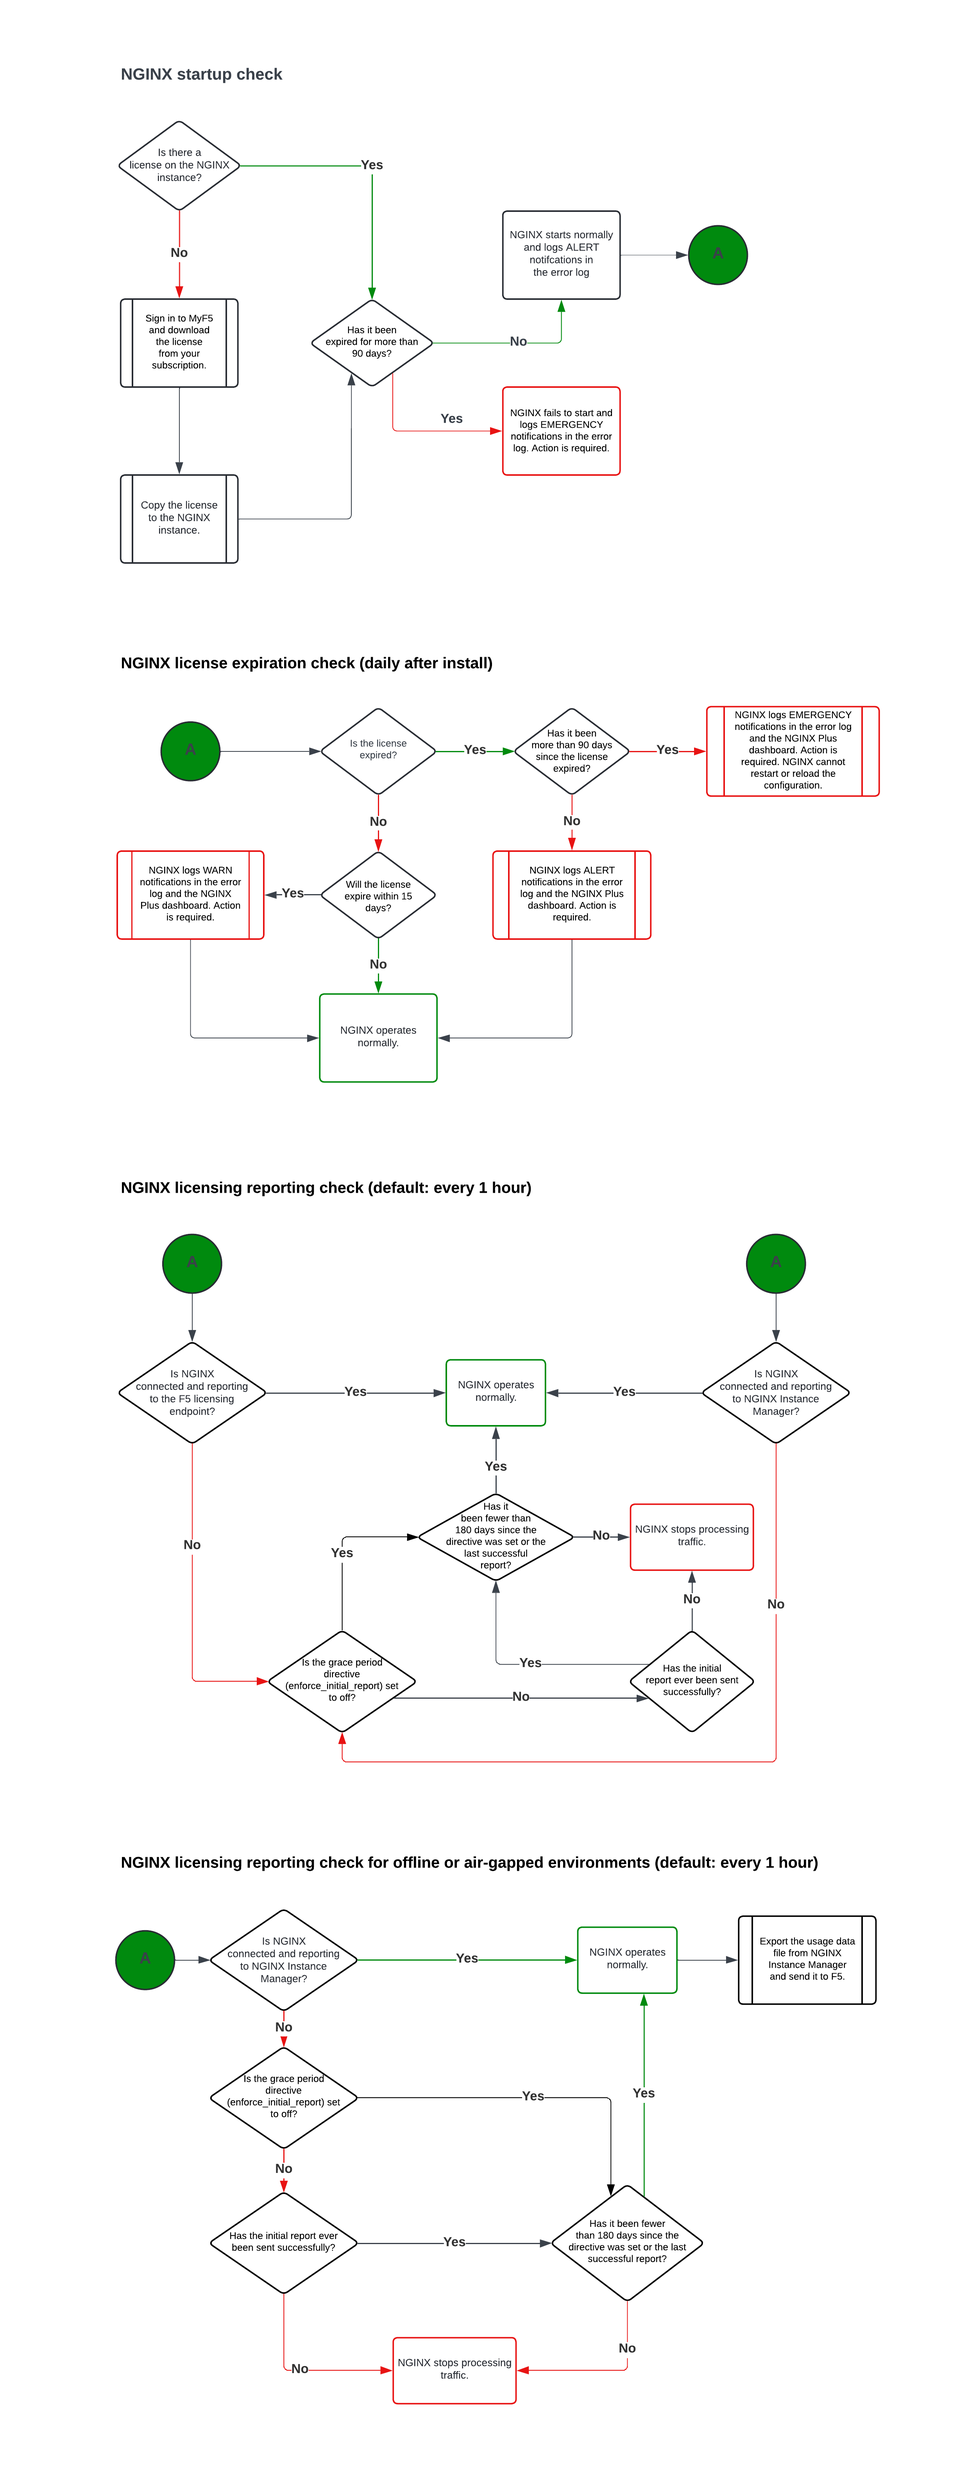
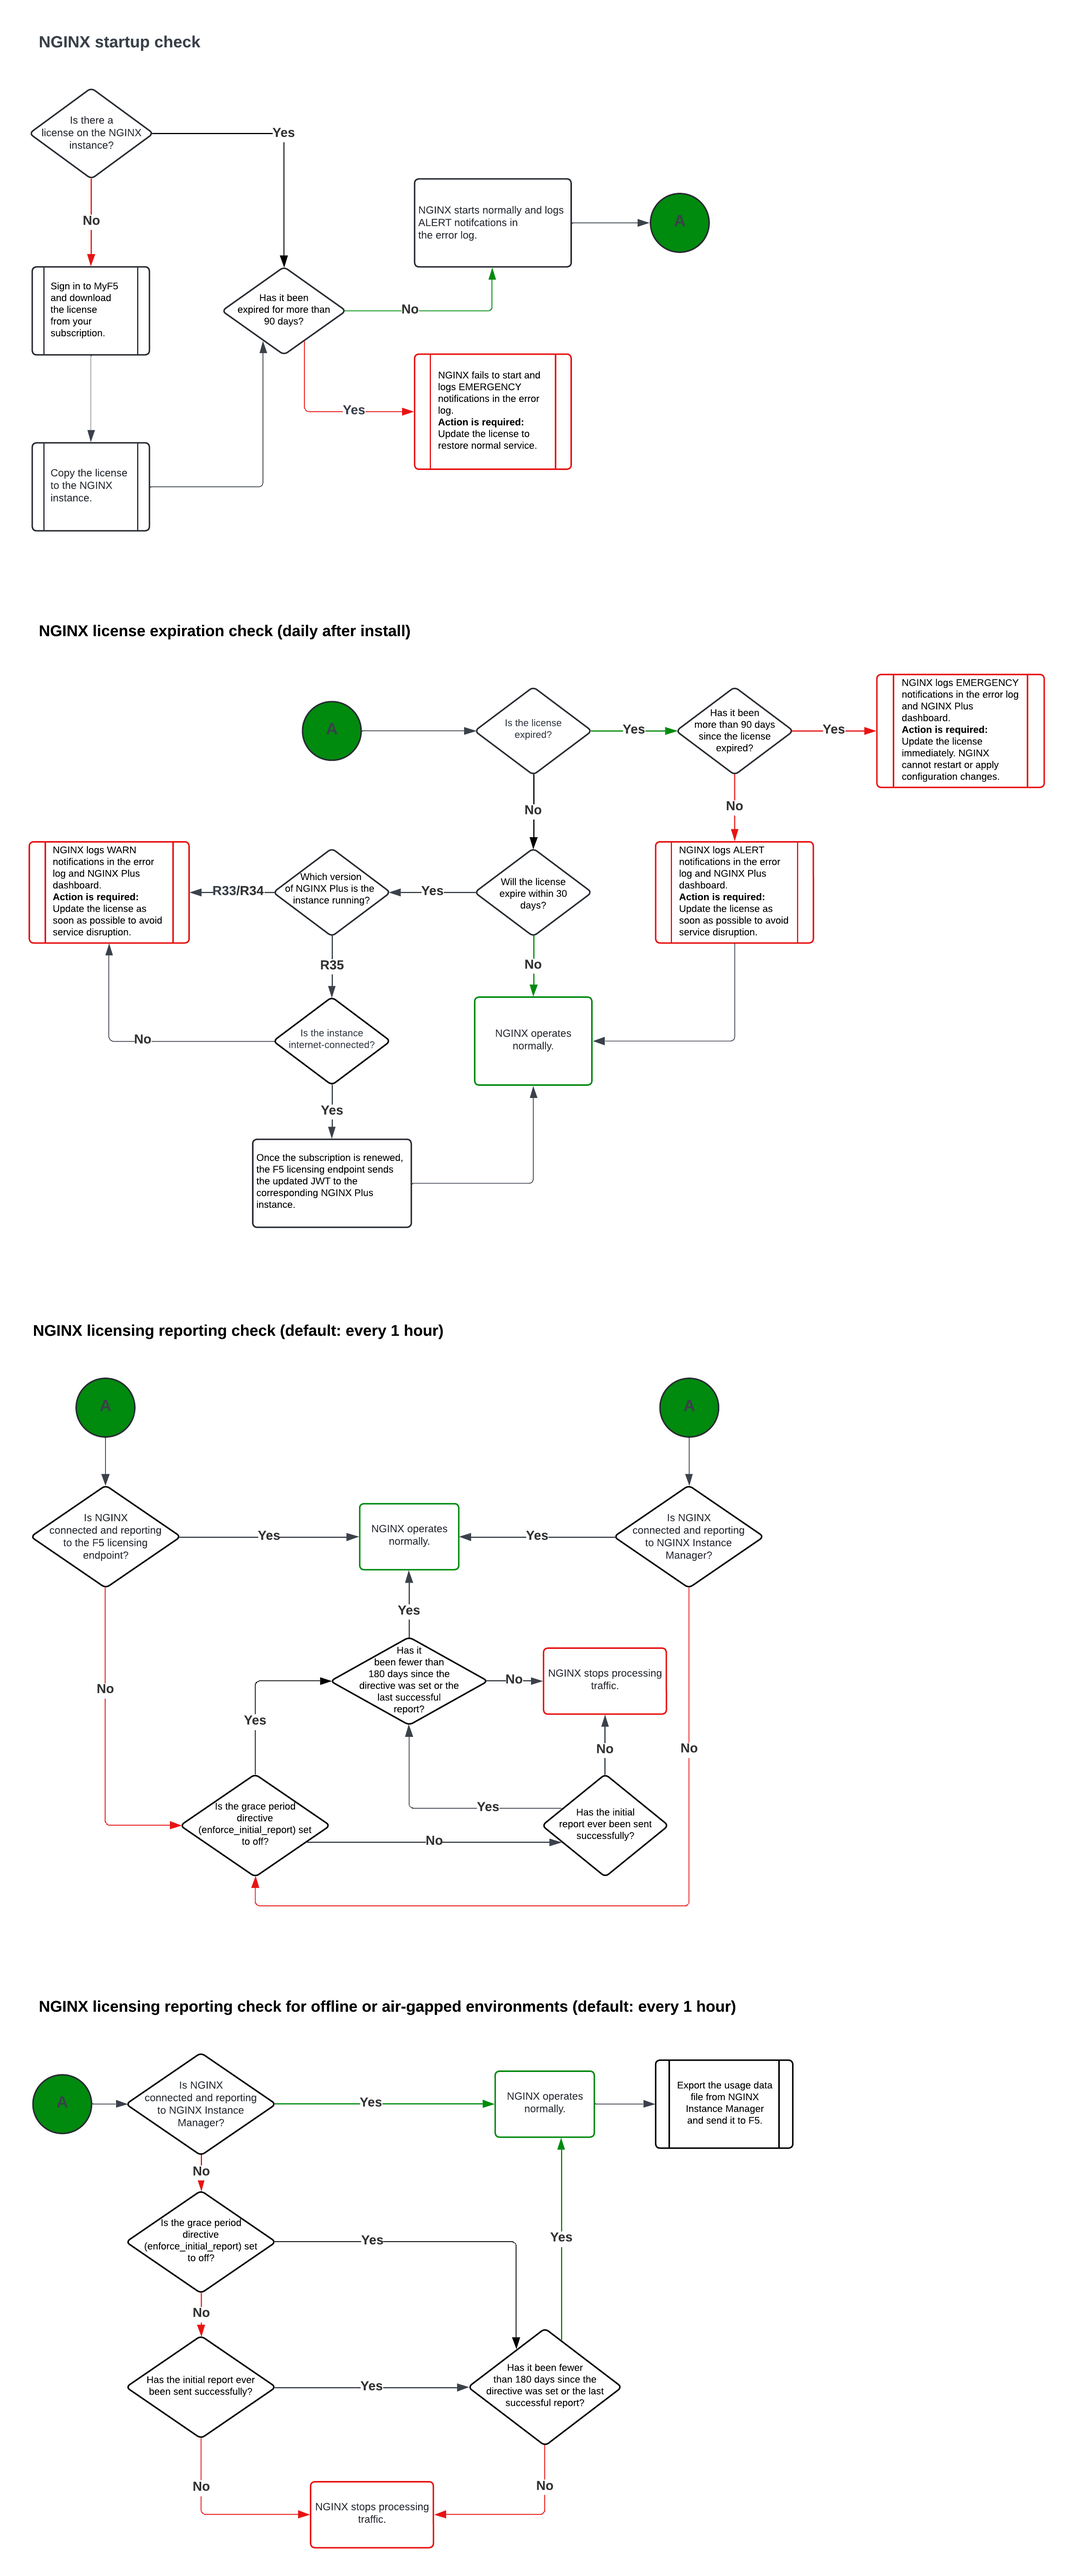
edits

diff --git a/content/solutions/about-subscription-licenses.md b/content/solutions/about-subscription-licenses.md
@@ -29,33 +29,37 @@ NGINX Plus requires a valid license and regular usage reporting to run normally.
 
 The conditions below, and the workflow diagram that follows, explain what happens if those requirements aren’t met.  
 
-### Starting NGINX Plus requires:
+### Starting NGINX Plus
+
+Requires:
 
 - A valid JWT license. If the license is missing or invalid, NGINX Plus won’t start.  
 - A license that is less than 90 days past expiration. If it’s expired longer, NGINX Plus won’t start.  
 
-### Continuing to process traffic requires:
+### Continuing to process traffic
+
+Requires:
 
 - A successful initial usage report. If the first report fails, NGINX Plus stops processing traffic until the report succeeds. See [Postpone reporting enforcement](#postpone-reporting-enforcement) for how to add a grace period.  
-- At least one usage report every 180 days. If the grace period ends without a report, NGINX Plus stops processing traffic until reporting is restored.  
+- At least one usage report every 180 days. If the grace period ends without a report, NGINX Plus stops processing traffic until reporting is restored.   
+
+### What you need to do
+
+To keep NGINX Plus running after you install or upgrade to R33 or later:
+
+- **[Add a valid JWT license](#download-jwt)** to each NGINX Plus instance.  
+- **[Set up reporting](#set-up-environment)** so each instance can send usage data.
 
 ### Licensing and reporting workflow
 
-The following workflow shows what happens when a JWT license is missing, expired, or when usage reporting fails:
+The following workflow illustrates the checks NGINX Plus performs and the outcomes if requirements aren’t met.
 
 {{< figure
     src="/nginx/images/nginx-plus-licensing-workflows.png"
     link="/nginx/images/nginx-plus-licensing-workflows.png"
-    alt="Flowchart showing NGINX Plus license and reporting checks, with outcomes for missing, expired, or invalid licenses."
-    caption="Figure: Licensing and reporting workflow for NGINX Plus. Outcomes include warnings in the error log, grace periods for reporting, and in some cases traffic stopping until the issue is resolved."
+    alt="Flowchart of NGINX Plus licensing and usage reporting checks (startup, expiration, and connected/disconnected reporting)."
+    caption="Figure: NGINX Plus licensing and reporting workflow."
 >}}
-
-### What this means for you
-
-To keep NGINX Plus running after you install or upgrade to R33 or later, you need to:
-
-- **[Add a valid JWT license](#download-jwt)** to each NGINX Plus instance.  
-- **[Set up reporting](#set-up-environment)** so each instance can send usage data.
 
 ---
 
@@ -81,6 +85,8 @@ Choose the option that fits your environment:
 
 ### Deploy with a Config Sync Group
 
+<br>
+
 If you use the [NGINX One Console]({{< ref "/nginx-one/getting-started.md" >}}), the easiest way to deploy your JWT license is with a [Config Sync Group]({{< ref "/nginx-one/nginx-configs/config-sync-groups/manage-config-sync-groups.md" >}}). A Config Sync Group lets you:
 
 - Avoid manual file copying  
@@ -91,14 +97,13 @@ To deploy the JWT license with a Config Sync Group:
 
 {{< include "/licensing-and-reporting/deploy-jwt-with-csgs.md" >}}
 
-After setup, the license syncs to all NGINX Plus instances in the group.  
+After setup, the license syncs to all NGINX Plus instances in the group.
 
-{{< call-out "note" "About renewals" "" >}}
-Starting in NGINX Plus R35, licenses can [renew automatically](#automatic-renewal) if license reporting is enabled.  
-Config Sync Groups are still useful for initial deployment and for keeping instances consistent.  
+<br>
 
-If you’re running a release earlier than R35, you’ll need to [update the license](#update-jwt) in the Config Sync Group whenever your subscription renews.  
-{{< /call-out >}}
+{{< include "/licensing-and-reporting/about-renewals-callout.md" >}}
+
+<br>
 
 {{< call-out "note" "If you’re using NGINX Instance Manager" "" >}}
 If you use NGINX Instance Manager instead of the NGINX One Console, the equivalent feature is an *instance group*. You can manage your JWT license the same way by adding or updating the file in the instance group. For details, see [Manage instance groups]({{< ref "/nim/nginx-instances/manage-instance-groups.md" >}}).
@@ -111,16 +116,15 @@ If you use NGINX Instance Manager instead of the NGINX One Console, the equivale
 
 ### Deploy manually
 
+<br>
+
 You can copy the JWT license file directly to each NGINX Plus instance.
 
 {{< include "/licensing-and-reporting/apply-jwt.md" >}}
 
-{{< call-out "note" "About renewals" "" >}}
-Starting in NGINX Plus R35, licenses can [renew automatically](#automatic-renewal) if license reporting is enabled.  
-Manual deployment is still useful for the initial license, or in environments where auto-renewal is not available (such as disconnected networks).  
+<br>
 
-If you’re running a release earlier than R35, you’ll need to [update the license manually](#update-jwt) whenever your subscription renews.  
-{{< /call-out >}}
+{{< include "/licensing-and-reporting/about-renewals-callout.md" >}}
 
 </details>
 
@@ -187,36 +191,39 @@ mgmt {
 
 ## Update the JWT license {#update-jwt}
 
+How you update the JWT license depends on your NGINX Plus release and environment:
+
+- In R35 and later, licenses are applied automatically when the subscription renews (if reporting is configured).  
+- In earlier releases or disconnected environments, you must update the license manually.  
+
 ### Automatic renewal (R35 and later) {#automatic-renewal}
 
-Starting in NGINX Plus R35, [JWT licenses are renewed automatically](https://community.f5.com/kb/technicalarticles/f5-nginx-plus-r35-release-now-available/342962/#community-342962-AutomaticJWTRenewal) for instances that report directly to the F5 licensing endpoint. NGINX Plus downloads the updated license and applies it without requiring a reload or restart.
+Starting in NGINX Plus R35, [JWT licenses are renewed automatically](#automatic-renewal) for instances that report directly to the F5 licensing endpoint. NGINX Plus downloads the updated license and applies it without requiring a reload or restart.
 
-- Begins 30 days before the current license expires and also applies if the license has expired but is still within the 90-day grace period.  
-- Requires an active subscription and license reporting to the F5 licensing endpoint.  
-- The licensing endpoint sends the updated license after the subscription is renewed.  
+Here’s how automatic renewal works:  
+
+- Beginning 30 days before the current license expires, NGINX Plus notifies the licensing endpoint as part of usage reporting.  
+- The licensing endpoint checks for a renewed subscription with F5.  
+- After the subscription is renewed, the licensing endpoint sends the updated JWT license to the instance.  
 - NGINX Plus applies the renewed license automatically and stores it as **nginx-mgmt-license** in the [`state_path`](https://nginx.org/en/docs/ngx_mgmt_module.html#state_path) directory.  
+- The original JWT license file at `/etc/nginx/license.jwt` (or a custom path set by [`license_token`](https://nginx.org/en/docs/ngx_mgmt_module.html#license_token)) is not modified. You can replace the original file manually if needed, but this does not affect NGINX Plus operation.  
+- This process also applies if the license has already expired but is still within the 90-day grace period.  
 - Traffic continues without interruption.  
 
-  {{< call-out "important" "Important" >}}  
-  Automatic renewal only works if:  
-  - License reporting is enabled, **and**  
-  - At least one usage report has already been sent successfully.  
+{{< call-out "important" "Important" >}}  
+Automatic renewal only works if:  
+- License reporting is configured, and  
+- At least one usage report has already been sent successfully.  
 
-  If these conditions aren’t met, you must [update the JWT license manually](#deploy-the-jwt-license).  
-  {{< /call-out >}}
+If these conditions aren’t met, you must [update the JWT license manually](#update-jwt).  
+{{< /call-out >}}
 
 ### Manual renewal (all releases)
 
 If auto-renewal is not available (for example, in disconnected environments), update the license manually:
 
 1. [Download the new JWT license](#download-jwt) from MyF5.  
-2. [Deploy the JWT license](#deploy-the-jwt-license) to your NGINX Plus instances.  
-
-### License files
-
-The auto-renewed license is stored in the `state_path` directory. The original JWT license file at `/etc/nginx/license.jwt` (or a custom path set by [`license_token`](https://nginx.org/en/docs/ngx_mgmt_module.html#license_token)) is not modified.  
-
-You can replace the original file manually if needed, but this does not affect NGINX Plus operation.
+1. [Deploy the JWT license](#deploy-the-jwt-license) to your NGINX Plus instances.
 
 ---
 

diff --git a/content/includes/licensing-and-reporting/about-renewals-callout.md b/content/includes/licensing-and-reporting/about-renewals-callout.md
@@ -1,0 +1,11 @@
+---
+file:
+  - content/solutions/about-subscription-licenses.md
+---
+
+{{< call-out "note" "About renewals" "" >}}
+Starting in NGINX Plus R35, renewed JWT licenses are [applied automatically](#automatic-renewal) if license reporting is enabled.  
+Manual deployment is still required for the initial license, or in environments where auto-renewal is not available (such as disconnected networks).  
+
+If you’re running a release earlier than R35, you’ll need to [update the license manually](#update-jwt) whenever your subscription renews.  
+{{< /call-out >}}

diff --git a/content/includes/licensing-and-reporting/apply-jwt.md b/content/includes/licensing-and-reporting/apply-jwt.md
@@ -15,10 +15,8 @@ file:
    systemctl reload nginx
    ```
 
-**If SELinux is enabled**: 
+1. If SELinux is enabled, set the correct file context so NGINX can read the license:
 
-Set the correct file context so NGINX can read the license:
-
-```shell
-chcon -t httpd_config_t /etc/nginx/license.jwt
-```
+   ```shell
+   chcon -t httpd_config_t /etc/nginx/license.jwt
+   ```
